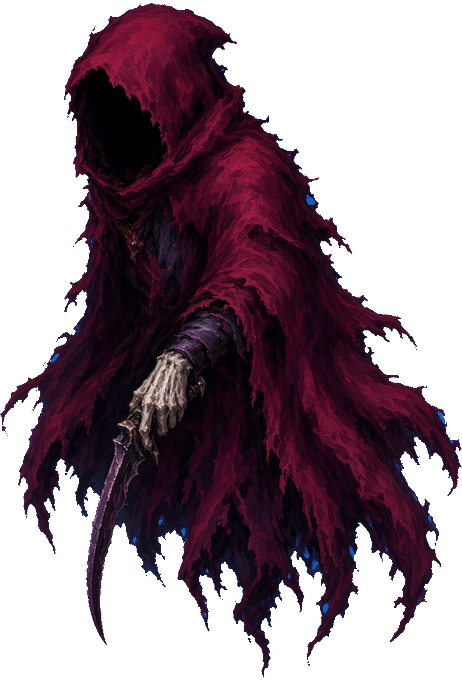
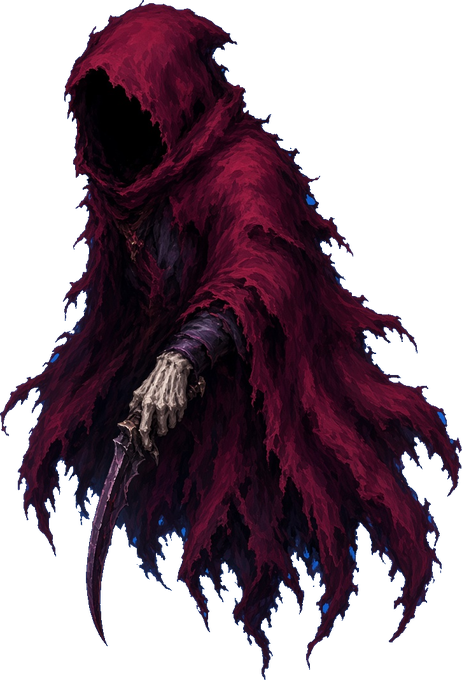
Restore the intact wraith sprite
The extra edge trim was punching holes through the cloak.

diff --git a/index.html b/index.html
@@ -279,7 +279,7 @@
   <div id="ghost-speech" class="ghost-bubble">✦ drag me. call them.</div>
 
   <div id="ghost-character" class="ghost-body">
-    <img class="ghost-svg" src="ghost.png?v=9" alt="" width="132" draggable="false">
+    <img class="ghost-svg" src="ghost.png?v=10" alt="" width="132" draggable="false">
   </div>
 
   <div class="ghost-mana" id="ghostMana" role="meter" aria-label="Soul" aria-valuemin="0" aria-valuemax="100" aria-valuenow="100">
